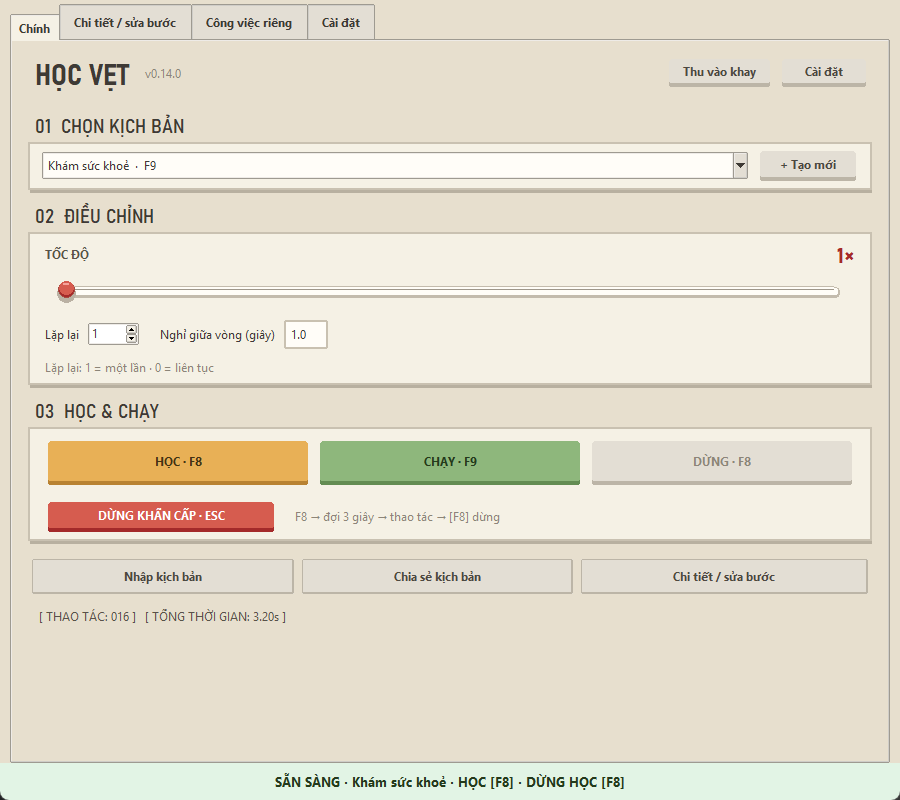
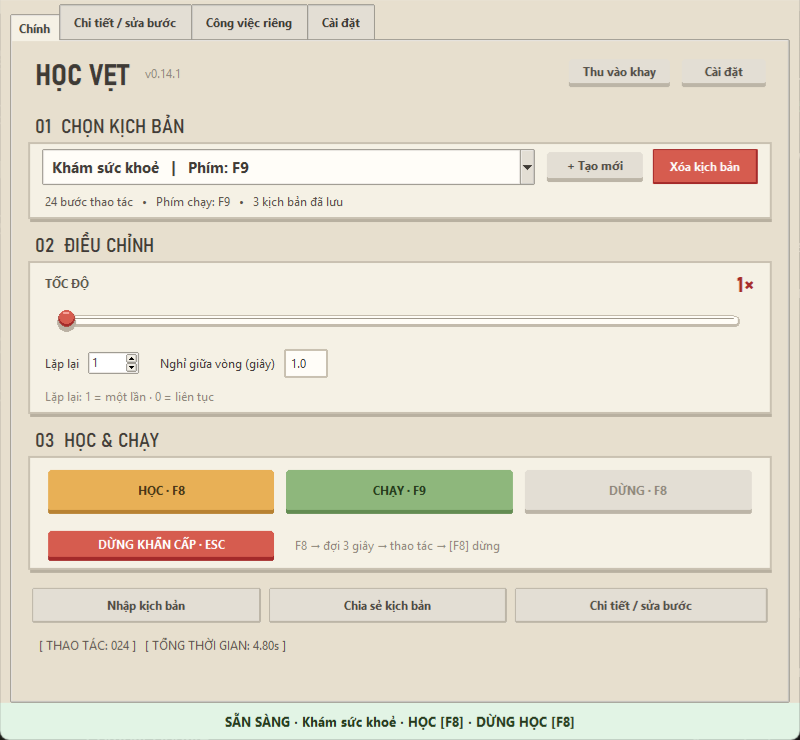
feat: release Hoc Vet v0.14.1 with clearer script selection and safe deletion

diff --git a/ui.py b/ui.py
@@ -467,11 +467,20 @@ class HocVetApp:
         Retro3DButton(header, text='Thu vào khay', width=105, height=32, top_color=BTN_BEIGE_TOP,
                       bot_color=BTN_BEIGE_BOT, text_color=BTN_BEIGE_TXT, command=self._hide_to_tray).pack(side=tk.RIGHT, padx=8)
         select = self._create_section_card(self.content, '01  CHỌN KỊCH BẢN')
-        self.profile_choice = ttk.Combobox(select, state='readonly', font=FONT_BODY)
+        choice_row = tk.Frame(select, bg=VINTAGE_CARD_BG)
+        choice_row.pack(fill=tk.X)
+        self.profile_choice = ttk.Combobox(choice_row, state='readonly', font=('Segoe UI', 11, 'bold'),
+            height=8, style='Profile.TCombobox', postcommand=self._style_profile_dropdown)
         self.profile_choice.pack(side=tk.LEFT, fill=tk.X, expand=True, padx=(0, 10))
-        self.profile_choice.bind('<<ComboboxSelected>>', lambda event: self._select_profile(self.manager.profiles[self.profile_choice.current()].id))
-        Retro3DButton(select, text='+ Tạo mới', width=100, height=34, top_color=BTN_BEIGE_TOP,
+        self.profile_choice.bind('<<ComboboxSelected>>', self._choose_profile)
+        self.btn_delete_profile = ttk.Button(choice_row, text='Xóa kịch bản', style='Danger.TButton',
+            command=self._cmd_delete_active_profile)
+        self.btn_delete_profile.pack(side=tk.RIGHT, padx=(8, 0))
+        Retro3DButton(choice_row, text='+ Tạo mới', width=100, height=34, top_color=BTN_BEIGE_TOP,
                       bot_color=BTN_BEIGE_BOT, text_color=BTN_BEIGE_TXT, command=self._cmd_add_profile).pack(side=tk.RIGHT)
+        self.profile_summary = tk.Label(select, bg=VINTAGE_CARD_BG, fg=VINTAGE_TEXT_BODY,
+            font=FONT_BODY, anchor='w', justify='left')
+        self.profile_summary.pack(fill=tk.X, pady=(6, 0))
         controls = self._create_section_card(self.content, '02  ĐIỀU CHỈNH')
         track = tk.Frame(controls, bg=VINTAGE_CARD_BG)
         track.pack(fill=tk.X)
@@ -875,13 +884,26 @@ class HocVetApp:
     # ==========================================
     def _refresh_profile_deck(self):
         active = self.manager.get_active_profile()
-        self.profile_choice.configure(values=[f'{p.name}  ·  {p.hotkey or "chưa gán phím"}' for p in self.manager.profiles])
+        self.profile_choice.configure(values=[f'{p.name}   |   Phím: {p.hotkey or "chưa gán"}' for p in self.manager.profiles])
         if active:
             self.profile_choice.current(self.manager.profiles.index(active))
         self._load_active_profile_ui()
 
+    def _style_profile_dropdown(self):
+        popdown = self.root.tk.call('ttk::combobox::PopdownWindow', self.profile_choice)
+        self.root.tk.call(f'{popdown}.f.l', 'configure', '-font', ('Segoe UI', 11),
+            '-background', '#fffdf8', '-foreground', VINTAGE_TEXT_HEAD,
+            '-selectbackground', BTN_BLUE_TOP, '-selectforeground', BTN_BLUE_TXT,
+            '-activestyle', 'none', '-borderwidth', 0)
+
+    def _choose_profile(self, event=None):
+        index = self.profile_choice.current()
+        if 0 <= index < len(self.manager.profiles):
+            self._select_profile(self.manager.profiles[index].id)
+
     def _select_profile(self, profile_id: str):
-        if self.manager.state != MacroManager.STATE_IDLE:
+        if self.manager.state != MacroManager.STATE_IDLE or self.manager.external_busy:
+            self._refresh_profile_deck()
             return
         self.manager.set_active_profile(profile_id)
         self._refresh_profile_deck()
@@ -978,9 +1000,10 @@ class HocVetApp:
             self._cmd_delete_profile(active.id)
 
     def _cmd_delete_profile(self, profile_id: str):
-        if self.manager.state != MacroManager.STATE_IDLE:
+        """Xóa kịch bản sau khi xác nhận, khi ứng dụng đang rảnh."""
+        if self.manager.state != MacroManager.STATE_IDLE or self.manager.external_busy:
+            self.notify_app('Chưa thể xóa kịch bản', 'Dừng học / chạy trước khi xóa kịch bản.')
             return
-        """Xóa kịch bản với kiểm tra an toàn và thông báo Windows Toast."""
         if len(self.manager.profiles) <= 1:
             messagebox.showwarning(
                 "Không thể xóa",
@@ -1006,7 +1029,12 @@ class HocVetApp:
             return
 
         deleted_name = target.name
-        if self.manager.delete_profile(profile_id):
+        try:
+            deleted = self.manager.delete_profile(profile_id)
+        except OSError as error:
+            messagebox.showerror('Không thể xóa kịch bản', f'Chưa lưu được thư viện. Kịch bản được giữ nguyên.\n{error}', parent=self.root)
+            return
+        if deleted:
             self._refresh_profile_deck()
             self.notify_app(
                 "🗑 Đã xóa kịch bản",
@@ -1214,6 +1242,9 @@ class HocVetApp:
         )
 
     def _handle_state_ui(self, state: str):
+        idle = state == MacroManager.STATE_IDLE and not self.manager.external_busy
+        self.profile_choice.configure(state='readonly' if idle else 'disabled')
+        self.btn_delete_profile.configure(state='normal' if idle else 'disabled')
         active = self.manager.get_active_profile()
         p_name = active.name if active else "Mặc định"
         p_hk = active.hotkey if active else "F9"
@@ -1349,6 +1380,8 @@ class HocVetApp:
         actions = active.actions if active else []
         total = len(actions)
         total_time = sum(act.delay for act in actions)
+        if active:
+            self.profile_summary.configure(text=f'{total:,} bước thao tác   •   Phím chạy: {active.hotkey or "Chưa gán"}   •   {len(self.manager.profiles)} kịch bản đã lưu')
         self.lbl_stats.configure(text=f"[ THAO TÁC: {total:03d} ]   [ TỔNG THỜI GIAN: {total_time:.2f}s ]")
 
     def _cmd_delete_selected_action(self):

diff --git a/test_features.py b/test_features.py
@@ -311,6 +311,58 @@ class FeaturesTest(unittest.TestCase):
 
 
 class UITest(unittest.TestCase):
+    def test_script_selector_is_readable_and_shows_explicit_hotkey(self):
+        second = ScriptProfile(name='Web auto', hotkey='0', actions=[])
+        self.app.manager.profiles.append(second)
+        self.app._refresh_profile_deck()
+        self.assertIn('Web auto   |   Phím: 0', self.app.profile_choice.cget('values'))
+        self.app._style_profile_dropdown()
+        popup = self.root.tk.call('ttk::combobox::PopdownWindow', self.app.profile_choice)
+        font = self.root.tk.call(f'{popup}.f.l', 'cget', '-font')
+        self.assertEqual(self.root.tk.splitlist(font), ('Segoe UI', '11'))
+        self.app.profile_choice.current(1)
+        self.app._choose_profile()
+        self.assertEqual(self.app.manager.get_active_profile(), second)
+        self.assertIn('0 bước thao tác', self.app.profile_summary.cget('text'))
+        self.assertIn('Phím chạy: 0', self.app.profile_summary.cget('text'))
+        second.actions.append(MacroAction('key_press', 0, key='a'))
+        self.app._refresh_action_tree()
+        self.assertIn('1 bước thao tác', self.app.profile_summary.cget('text'))
+
+    def test_visible_delete_button_cancels_then_deletes_selected_script_and_persists(self):
+        second = ScriptProfile(name='Web auto', hotkey='0')
+        self.app.manager.profiles.append(second)
+        self.app.manager.set_active_profile(second.id)
+        self.app._refresh_profile_deck()
+        self.app.manager.save_library()
+        with patch.object(self.ui.messagebox, 'askyesno', return_value=False):
+            self.app.btn_delete_profile.invoke()
+        self.assertEqual(self.app.manager.get_active_profile(), second)
+        with patch.object(self.ui.messagebox, 'askyesno', return_value=True) as confirm, \
+                patch.object(self.app, 'notify_app'):
+            self.app.btn_delete_profile.invoke()
+        self.assertIn('Web auto', confirm.call_args.args[1])
+        self.assertEqual(self.app.manager.get_active_profile(), self.profile)
+        self.assertEqual(self.app.profile_choice.current(), 0)
+        saved = MacroStorage.load_library(self.app.manager.library_path)[0]
+        self.assertEqual([p.id for p in saved], [self.profile.id])
+
+    def test_delete_failure_keeps_script_and_busy_delete_is_blocked(self):
+        second = ScriptProfile(name='Giữ lại khi lỗi')
+        self.app.manager.profiles.append(second)
+        with patch.object(self.ui.messagebox, 'askyesno', return_value=True), \
+                patch.object(self.app.manager, 'save_library', side_effect=OSError('Disk full')), \
+                patch.object(self.ui.messagebox, 'showerror') as error:
+            self.app._cmd_delete_active_profile()
+        error.assert_called_once()
+        self.assertEqual(self.app.manager.profiles, [self.profile, second])
+        self.assertEqual(self.app.manager.get_active_profile(), self.profile)
+        self.app.manager.external_busy = True
+        with patch.object(self.ui.messagebox, 'askyesno') as confirm, patch.object(self.app, 'notify_app'):
+            self.app._cmd_delete_active_profile()
+        confirm.assert_not_called()
+        self.assertEqual(len(self.app.manager.profiles), 2)
+
     def test_tabs_speed_and_app_only_progress_notification(self):
         from tkinter import ttk
         self.assertEqual(len(self.app.tabs.tabs()), 4)

diff --git a/core.py b/core.py
@@ -827,11 +827,17 @@ class MacroManager:
         idx = next((i for i, p in enumerate(self.profiles) if p.id == profile_id), -1)
         if idx == -1:
             return False
-        self.profiles.pop(idx)
+        deleted = self.profiles.pop(idx)
+        previous_active = self.active_profile_id
         if self.active_profile_id == profile_id:
             new_idx = min(idx, len(self.profiles) - 1)
             self.active_profile_id = self.profiles[new_idx].id
-        self.save_library()
+        try:
+            self.save_library()
+        except OSError:
+            self.profiles.insert(idx, deleted)
+            self.active_profile_id = previous_active
+            raise
         self.reload_global_hotkeys()
         return True
 

diff --git a/ui_theme.py b/ui_theme.py
@@ -66,6 +66,7 @@ def apply_theme(root, scale):
                     arrowcolor=VINTAGE_TEXT_HEAD, padding=round(4 * scale))
     style.map('TCombobox', fieldbackground=[('readonly', '#fffdf8')],
               selectbackground=[('readonly', BTN_BLUE_TOP)], selectforeground=[('readonly', BTN_BLUE_TXT)])
+    style.configure('Profile.TCombobox', padding=(round(8*scale), round(6*scale)))
     for name, top, bottom, text in (
             ('TButton', BTN_BEIGE_TOP, BTN_BEIGE_BOT, BTN_BEIGE_TXT),
             ('Primary.TButton', BTN_GREEN_TOP, BTN_GREEN_BOT, BTN_GREEN_TXT),

diff --git a/app_info.py b/app_info.py
@@ -1,3 +1,3 @@
 """Thông tin phát hành dùng chung."""
 APP_NAME = "Học Vẹt"
-APP_VERSION = "0.14.0"
+APP_VERSION = "0.14.1"

diff --git a/README.md b/README.md
@@ -1,22 +1,20 @@
-# Học Vẹt · v0.14.0
+# Học Vẹt · v0.14.1
 
 Trợ lý ghi và phát lại thao tác chuột / bàn phím trên Windows, dành cho công việc văn phòng và phần mềm HIS.
 
 **Tác giả:** Nhật Nam ([@UIBreaker](https://github.com/UIBreaker)) · **Giấy phép:** [MIT](LICENSE)
 
-## Có gì mới trong 0.14.0
+## Có gì mới trong 0.14.1
 
-- Bốn tab **Chính**, **Chi tiết / sửa bước**, **Công việc riêng**, **Cài đặt**; danh sách chia trang.
-- **Công việc riêng:** học và chạy trong Edge riêng hoặc cửa sổ Windows / HIS tương thích, không chiếm chuột thật.
-- Tốc độ **1×–10×**, có thể gán phím cho từng mức và các nút Công việc.
-- Thông báo nổi có **thanh tiến độ**, thay thông báo Windows.
-- Tự lưu, nhập và chia sẻ công việc bằng JSON; tiếp tục chạy khi đổi tab hoặc thu vào khay.
+- Danh sách kịch bản chữ lớn, nền chọn xanh nhạt; hiển thị rõ phím chạy, số bước và tổng số kịch bản.
+- Thêm nút đỏ **Xóa kịch bản** cạnh **Tạo mới**, có xác nhận trước khi xóa.
+- Chặn xóa khi đang học / chạy; giữ lại kịch bản nếu lưu thư viện thất bại. Thư viện luôn giữ ít nhất một kịch bản.
 
 Chi tiết tại [ghi chú phát hành](RELEASE_NOTES.md).
 
 ## Tải và chạy
 
-Tải **HocVet.exe** hoặc **HocVet-v0.14.0-Windows.zip** tại [bản phát hành 0.14.0](https://github.com/UIBreaker/Smart_Operation/releases/tag/v0.14.0). Xem bản mới nhất tại [GitHub Releases](https://github.com/UIBreaker/Smart_Operation/releases/latest). Giải nén ZIP rồi chạy **Học Vẹt.exe**, hoặc chạy trực tiếp **HocVet.exe**; không cần cài Python. Chế độ Web riêng cần Microsoft Edge đã cài. Giao diện hiển thị tên **Học Vẹt**; kho mã vẫn dùng địa chỉ Smart_Operation.
+Tải **HocVet.exe** hoặc **HocVet-v0.14.1-Windows.zip** tại [bản phát hành 0.14.1](https://github.com/UIBreaker/Smart_Operation/releases/tag/v0.14.1); **SHA256SUMS.txt** dùng để kiểm tra file tải về. Xem bản mới nhất tại [GitHub Releases](https://github.com/UIBreaker/Smart_Operation/releases/latest). Giải nén ZIP rồi chạy **Học Vẹt.exe**, hoặc chạy trực tiếp **HocVet.exe**; không cần cài Python. Chế độ Web riêng cần Microsoft Edge đã cài. Giao diện hiển thị tên **Học Vẹt**; kho mã vẫn dùng địa chỉ Smart_Operation.
 
 Đóng phiên bản cũ trước khi mở EXE mới. Dữ liệu và cài đặt được giữ trong `%LOCALAPPDATA%\HocVet`; không xóa thư mục này khi nâng cấp.
 
@@ -39,6 +37,14 @@ Tab **Chính** điều chỉnh tốc độ từ **1× đến 10×**. Tab **Chi t
 ![Thông báo tiến độ](docs/images/progress.png)
 
 Các phím trên là mặc định, có thể đổi trong Cài đặt.
+
+## Chọn và xóa kịch bản
+
+Ô chọn kịch bản hiển thị rõ **tên · Phím chạy**, có số bước và tổng số kịch bản bên dưới. Nút đỏ **Xóa kịch bản** nằm cạnh **Tạo mới**, hỏi xác nhận trước khi xóa và chỉ dùng khi đã dừng học / chạy. Thư viện giữ ít nhất một kịch bản; hãy tạo kịch bản mới trước khi xóa kịch bản cuối cùng.
+
+Nếu không lưu được thư viện, ứng dụng báo lỗi và giữ nguyên kịch bản. Nút xóa dùng chung lệnh với phím tắt **Xóa kịch bản** trong Cài đặt.
+
+![Danh sách và nút xóa kịch bản](docs/images/script-selector.png)
 
 ## Cài đặt phím tắt
 

diff --git a/RELEASE_NOTES.md b/RELEASE_NOTES.md
@@ -1,3 +1,21 @@
+# Học Vẹt v0.14.1
+
+- Danh sách kịch bản dùng chữ lớn hơn, nền chọn xanh nhạt, phân biệt rõ tên và phím chạy. Hiển thị số bước và số kịch bản đã lưu ngay dưới ô chọn.
+- Thêm nút đỏ **Xóa kịch bản** cạnh nút Tạo mới, dùng chung lệnh và phím tắt Xóa kịch bản. Có xác nhận trước khi xóa; chặn xóa trong lúc học / chạy và giữ lại kịch bản nếu không lưu được thư viện.
+- Giữ quy tắc thư viện luôn có ít nhất một kịch bản; muốn xóa kịch bản cuối cùng, tạo kịch bản mới trước.
+
+## Nâng cấp
+
+Đóng phiên bản cũ rồi thay EXE hoặc giải nén gói mới. Dữ liệu và cài đặt được giữ tại `%LOCALAPPDATA%\HocVet`; không xóa thư mục này.
+
+## Tải về
+
+- `HocVet.exe`: chạy trực tiếp trên Windows, không cần Python.
+- `HocVet-v0.14.1-Windows.zip`: ứng dụng, README, ảnh hướng dẫn và giấy phép.
+- `SHA256SUMS.txt`: mã SHA256 để kiểm tra EXE và ZIP.
+
+---
+
 # Học Vẹt v0.14.0
 
 - Bốn tab Chính, Chi tiết / sửa bước, Công việc riêng, Cài đặt. Bỏ thanh cuộn ở các tab; danh sách bước và phím tắt chia trang.
